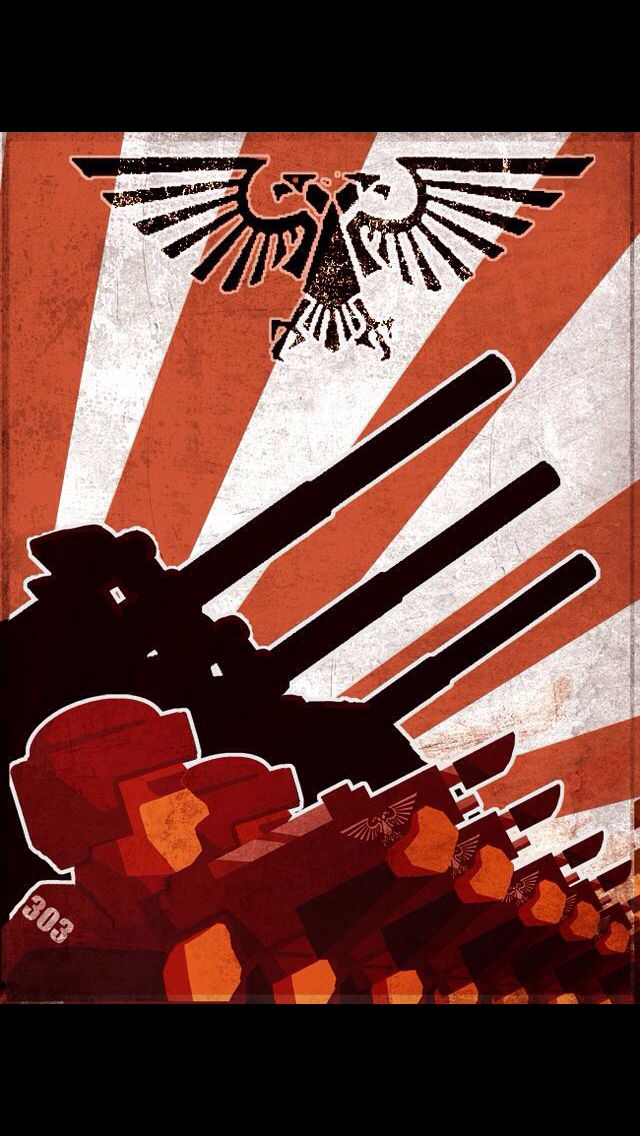
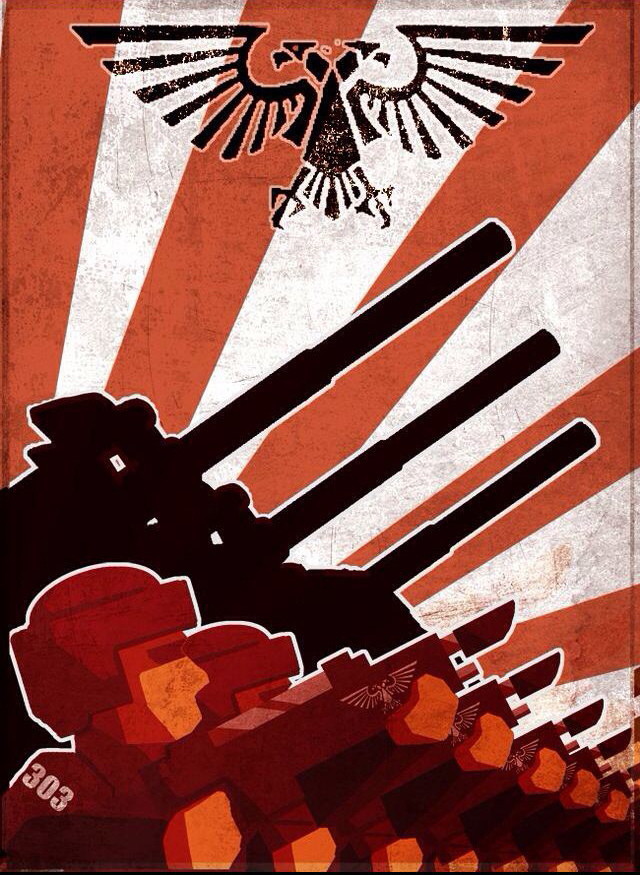
n

diff --git a/index.html b/index.html
@@ -11,7 +11,7 @@
       <br>
       <div class="leftcol">
           afibdhahifpda
-          <img src="images/propa1.jpg" alt="Propaganda1" width="250" height="520" />
+          <img src="images/propa1.jpg" alt="Propaganda1" width="230" height="550" />
       </div>
       <div class = "midcol">
         <p>
